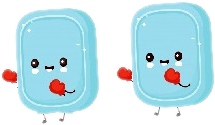
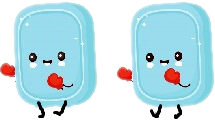
No peta la pantalla pero jaboncito va deslizandose . Hay que cambiar jabon a un png bueno lo siento soy inutil ya lo sabeis.

Changed region(s): [[0.0, 0.0, 0.4744, 0.984], [0.6977, 0.816, 0.7535, 0.96], [0.8093, 0.816, 0.8651, 0.96]]

diff --git a/CombateElVirus/src/Mundo.cpp b/CombateElVirus/src/Mundo.cpp
@@ -471,7 +471,7 @@ int Mundo::Ganar() {
 		}
 		else {
 			return 1;
-			hombre.SetDir(0);
+			hombre.Victoria(); //doesnt work :c sadly
 		}
 	}
 }
